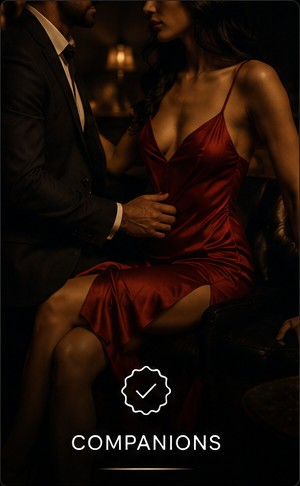
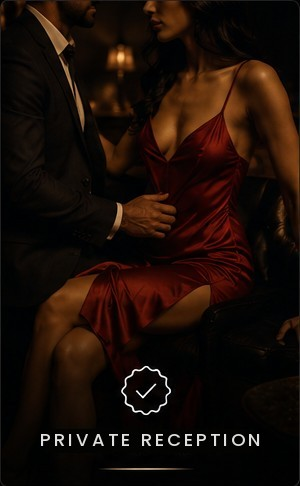
Category card: rename Companions to Private Reception
Repaints the baked-in card label from COMPANIONS to PRIVATE RECEPTION (matching
Poppins/white/letter-spacing, badge kept), and points the card at /private-reception.
Slug/image path and #cat-companions animation binding are unchanged.

Claude-Session: https://claude.ai/code/session_019cBfMTW6WJZbMwcLdgVj1F

Changed region(s): [[0.12, 0.8951, 0.87, 0.9259]]

diff --git a/app/components/CategoryAnimations/CategoryAnimations.tsx b/app/components/CategoryAnimations/CategoryAnimations.tsx
@@ -8,7 +8,7 @@ import './styles.css'
 
 const CATS: { label: string; slug: string; route: string; headline: string; accent: string }[] = [
   { label: 'Escorts',    slug: 'escorts',    route: '/escorts',       headline: 'Your secret side',        accent: '#e6c98a' },
-  { label: 'Companions', slug: 'companions', route: '/companionship', headline: 'Never arrive alone',       accent: '#e3ba86' },
+  { label: 'Private Reception', slug: 'companions', route: '/private-reception', headline: 'Never arrive alone', accent: '#e3ba86' },
   { label: 'Nightlife',  slug: 'nightlife',  route: '/nightlife',     headline: 'Where the night opens',    accent: '#ef6d86' },
   { label: 'Creators',   slug: 'creators',   route: '/creators',      headline: 'Follow every obsession',   accent: '#c79bef' },
   { label: 'Rentals',    slug: 'rentals',    route: '/rentals',       headline: 'A place to disappear',     accent: '#edc074' },
